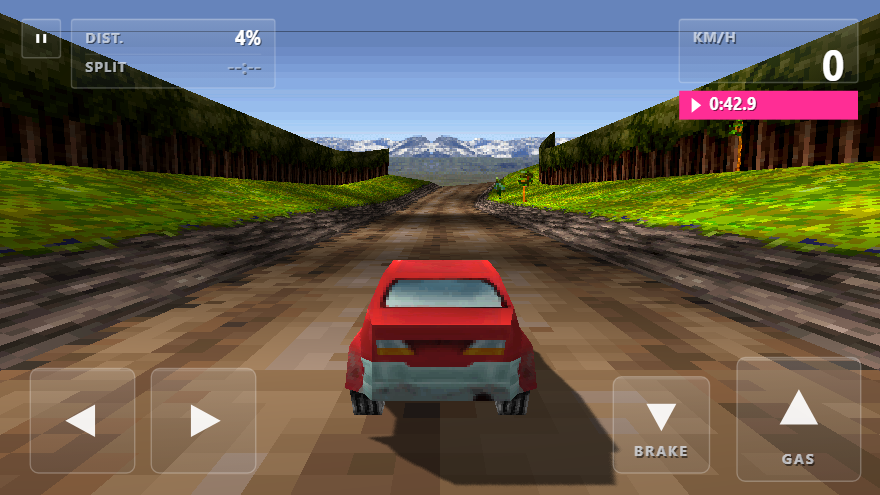
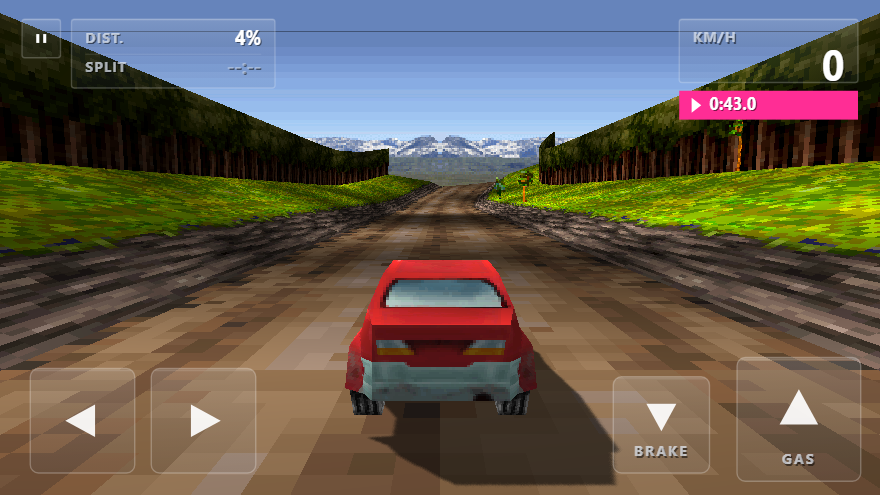
Remove the camera shake
It was never quite right: the camera version made the car slide around
inside a still HUD, and the whole-frame version still read as the world
shifting under you. The view is cleaner and more readable without it, so
the shake code, the option and the setting are all gone.

Changed region(s): [[0.3375, 0.2727, 0.6443, 0.3636], [0.8284, 0.1818, 0.8591, 0.2424]]

diff --git a/game/js/race.js b/game/js/race.js
@@ -255,7 +255,6 @@ const raceScene = {
         { label: 'Motion blur', right: st.motionBlur === 0 ? 'off' : 'on' },
         { label: 'Lighting', right: st.lighting === 0 ? 'off' : 'on' },
         { label: 'Shadows', right: st.shadows === 0 ? 'off' : 'on' },
-        { label: 'Camera shake', right: st.shake === 0 ? 'off' : 'on' },
         { label: 'Auto acceleration', right: st.auto === 1 ? 'on' : 'off' },
         { label: 'Speed units', right: [D.lang[66], D.lang[67]][st.units] },
       ];
@@ -275,8 +274,7 @@ const raceScene = {
       else if (i === 2) st.motionBlur = (st.motionBlur + 1) % 2;
       else if (i === 3) st.lighting = (st.lighting + 1) % 2;
       else if (i === 4) st.shadows = (st.shadows + 1) % 2;
-      else if (i === 5) st.shake = (st.shake + 1) % 2;
-      else if (i === 6) st.auto = (st.auto + 1) % 2;
+      else if (i === 5) st.auto = (st.auto + 1) % 2;
       else st.units = (st.units + 1) % 2;
       R3D.persist();
       if (i >= 2 && i <= 4) this.rebuildGraphics();
@@ -699,7 +697,6 @@ const raceScene = {
       const l = toWorld(look[0], look[1], look[2]);
       camera.lookAt(l.x, l.y, l.z);
     }
-    this.applyShake(dt);
     this.setHorizonFromLook();
     this.placeCar();
   },
@@ -721,55 +718,6 @@ const raceScene = {
       (180 - this.yaw) * Math.PI / 180,
       this.roll * Math.PI / 180
     );
-  },
-
-  // -------------------------------------------------- camera shake
-  // How much the camera should rattle: the faster you go and the more the
-  // suspension is working, the more. The bumpiness comes from how fast the
-  // car's attitude is changing - a steady slope gives a constant roll, which
-  // should not shake the camera at all. Kept deliberately small: it is there
-  // to make the speed felt, not to make the screen hard to read.
-  shakeAmount() {
-    const top = TOPS[R3D.game.carIdx] / 10;
-    const speedK = Math.max(0, Math.min(1, this.speed / top));
-    const dRoll = this.prevRoll === undefined ? 0 : Math.abs(this.roll - this.prevRoll);
-    const dPitch = this.prevPitch === undefined ? 0 : Math.abs(this.pitch - this.prevPitch);
-    const dY = this.prevY === undefined ? 0 : Math.abs(this.pos.y - this.prevY);
-    // how much the suspension is working: the car changing attitude and
-    // bouncing over the road
-    const rough = Math.max(0, Math.min(1, (dRoll + dPitch) * 4 + dY * 6));
-    // speed always gives a little rattle, rough ground gives a lot more
-    return speedK * speedK * (0.45 + rough * 0.55);
-  },
-
-  // The shake moves the WHOLE frame - the scenery, the car and the HUD
-  // together - not the camera. Shaking the camera instead would slide the
-  // car against a still background and the HUD, which reads as the car
-  // shaking rather than the view.
-  applyShake(dt) {
-    // the on-car cameras are bolted to the body, so they rattle far less
-    const scale = this.camMode === 'hood' || this.camMode === 'bumper' ? 0.4 : 1;
-    // in screen pixels - a couple of pixels is a rattle, more than that is a
-    // wobble
-    if (S().settings.shake === 0) { this.shakeX = 0; this.shakeY = 0; return; }
-    const amt = this.shakeAmount() * 1.1 * scale;
-    let ox = 0, oy = 0;
-    if (amt >= 0.02) {
-      this.shakeT = (this.shakeT || 0) + dt * (14 + 16 * Math.min(1, this.speed / 4));
-      const t = this.shakeT;
-      // a couple of out-of-step waves read as a rattle, not as a wobble
-      const sx = Math.sin(t * 1.9) * 0.6 + Math.sin(t * 4.3 + 1.1) * 0.4;
-      const sy = Math.sin(t * 2.6 + 0.7) * 0.5 + Math.sin(t * 5.7) * 0.5;
-      ox = sx * amt;
-      oy = sy * amt;
-    }
-    this.shakeX = ox;
-    this.shakeY = oy;
-    // remember where the car was, so the next frame can see how much the
-    // suspension moved
-    this.prevRoll = this.roll;
-    this.prevPitch = this.pitch;
-    this.prevY = this.pos.y;
   },
 
   // the contact shadow follows the car and fades as it leaves the ground
@@ -831,21 +779,16 @@ const raceScene = {
     // the background art is pinned to the horizon of whichever camera is
     // active; looking straight down there is no horizon, so it is skipped
     const hy = this.horizon;
-    // the whole frame - scenery, car and HUD - is nudged together, so the
-    // shake reads as the view rattling rather than the car moving
-    const sx = this.shakeX || 0, sy = this.shakeY || 0;
-    ui.save();
-    ui.translate(sx, sy);
-    ui.fillStyle = '#000'; ui.fillRect(-6, -6, W + 12, H + 12);
+    ui.fillStyle = '#000'; ui.fillRect(0, 0, W, H);
     if (hy === null || hy === undefined) {
-      ui.fillStyle = R3D.argb(th.ct).css; ui.fillRect(-6, -6, W + 12, H + 12);
+      ui.fillStyle = R3D.argb(th.ct).css; ui.fillRect(0, 0, W, H);
     } else {
       const y0 = Math.round(hy - 110 * BG_SCALE);
       let x0 = Math.floor((-(this.camYaw * BG_SCROLL) % bgW + bgW * 4) % bgW) - bgW;
-      if (y0 > 0) { ui.fillStyle = R3D.argb(th.N).css; ui.fillRect(-6, -6, W + 12, y0 + 6); }
-      for (let x = x0 - 6; x < W + 6; x += bgW) ui.drawImage(bg, x, y0, bgW, bgH);
+      if (y0 > 0) { ui.fillStyle = R3D.argb(th.N).css; ui.fillRect(0, 0, W, y0); }
+      for (let x = x0; x < W; x += bgW) ui.drawImage(bg, x, y0, bgW, bgH);
       const yBot = y0 + bgH;
-      if (yBot < H) { ui.fillStyle = R3D.argb(th.ct).css; ui.fillRect(-6, yBot, W + 12, H - yBot + 6); }
+      if (yBot < H) { ui.fillStyle = R3D.argb(th.ct).css; ui.fillRect(0, yBot, W, H - yBot); }
     }
 
     if (R3D.scene3d) {
@@ -860,7 +803,6 @@ const raceScene = {
     if (!this.paused && this.phase !== 'prerace' && this.phase !== 'done') this.drawControls();
     if (this.paused) this.drawPause();
     if (this.phase === 'prerace') this.drawPreRace();
-    ui.restore();
   },
 
   // -------------------------------------------------- the AI opponent

diff --git a/game/js/scenes.js b/game/js/scenes.js
@@ -478,7 +478,6 @@ const settingsScene = {
       { label: 'Motion blur', right: st.motionBlur === 0 ? 'off' : 'on' },
       { label: 'Lighting', right: st.lighting === 0 ? 'off' : 'on' },
       { label: 'Shadows', right: st.shadows === 0 ? 'off' : 'on' },
-      { label: 'Camera shake', right: st.shake === 0 ? 'off' : 'on' },
     ];
   },
   pick(i) {
@@ -486,8 +485,7 @@ const settingsScene = {
     if (this.page === 1) {
       if (i === 0) st.motionBlur = (st.motionBlur + 1) % 2;
       else if (i === 1) st.lighting = (st.lighting + 1) % 2;
-      else if (i === 2) st.shadows = (st.shadows + 1) % 2;
-      else st.shake = (st.shake + 1) % 2;
+      else st.shadows = (st.shadows + 1) % 2;
       R3D.persist();
       if (R3D.raceScene && R3D.raceScene.rebuildGraphics) R3D.raceScene.rebuildGraphics();
       return;
@@ -537,8 +535,6 @@ const settingsScene = {
         '',
         'Lighting puts a sun on the hills and',
         'the car. Shadows drop it onto the road.',
-        '',
-        'Camera shake rattles the whole frame.',
       ];
       tips.forEach((t, i) => text(t, PAD + 18, 126 + i * 21, 0, C.dim, 12, '500'));
       return;

diff --git a/game/js/main.js b/game/js/main.js
@@ -580,7 +580,7 @@ function defSave() {
     names, scores,
     champ: 0,
     settings: { sound: 2, units: 0, auto: 0, titleSong: 0, tilt: 0, buttons: 1, camera: 'chase',
-                motionBlur: 1, lighting: 1, shadows: 1, shake: 1 },
+                motionBlur: 1, lighting: 1, shadows: 1 },
     name: D.lang[68],
   };
 }

diff --git a/README.md b/README.md
@@ -86,13 +86,12 @@ Settings → *Graphics*, or the same three rows in the in-race pause menu.
 | Option | What it does |
 |--------|--------------|
 | **Motion blur** | A radial blur that grows with your speed. Only the far edges of the screen smear — the car and the road ahead stay sharp, so it reads as speed rather than as a smudge. |
-| **Camera shake** | The whole frame — scenery, car and HUD together — rattles by a pixel or two, more at speed and rougher where the suspension is working. Because everything moves together it never reads as the car wobbling on its own. Can be switched off entirely. |
 | **Lighting** | Puts a sun on the track: the slopes that face the light are brighter, the ones turned away are darker, and the car picks up the same light. |
 | **Shadows** | A real shadow map. The car casts a shadow onto the road that moves with it; the shadow box follows the car, so the map only ever has to cover the road around you. |
 
 The background panoramas are mirrored into a double-width strip so they tile
-without a seam — a hard vertical line that moves with the camera is very
-noticeable, and it was what made the view look broken.
+without a seam — the art does not wrap, and a hard vertical line every tile
+across the screen is very noticeable.
 
 Changing a setting rebuilds what it affects on the spot — no restart, and the
 race carries on.
